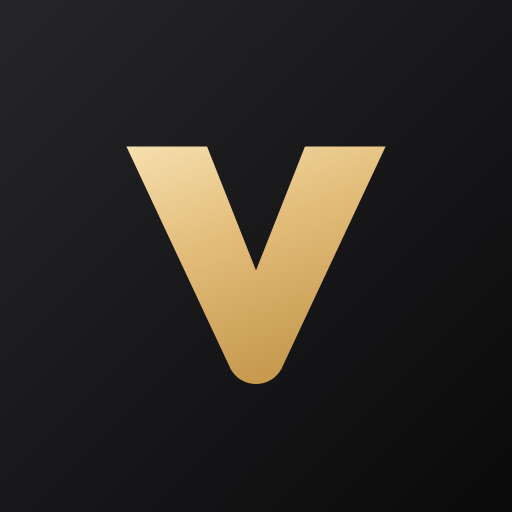
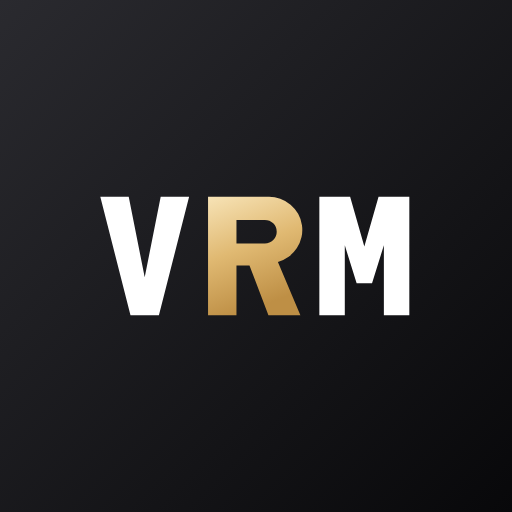
Sigle VRM dessine lettre par lettre, icone personnalisable, baseline retiree
LOGO — plus aucune reference a la chaussure
Les futurs utilisateurs ne vendront pas forcement des sneakers : le logo devait
etre neutre. C'est le sigle VRM, avec le R en dore — un seul detail de couleur,
c'est ce qui separe une marque d'un mot ecrit en gras.

Les lettres sont dessinees en traces vectoriels, pas ecrites avec une police.
Une police met un instant a charger, et peut ne jamais charger : le logo
sauterait alors d'une graisse a l'autre sous les yeux de l'utilisateur. Le R
porte sa contre-forme (le trou de la panse) via fill-rule evenodd.

Deux usages : le medaillon carre (icone, en-tete, ecran de connexion) et le
sigle a plat pour l'en-tete. Icones iPhone/PWA regenerees depuis le meme trace.

ICONE PERSONNALISABLE
Chacun peut mettre la sienne : Parametres → Icone de l'application. Elle
remplace le favicon, l'icone iOS et — nouveaute — le manifeste, fabrique a la
volee, car Android lit le manifeste et pas les balises <link>.

Au passage, un vrai bug : l'app ecrasait les icones avec l'ancienne photo par
defaut a chaque chargement. L'icone soignee etait donc systematiquement
remplacee sans que personne l'ait demande. On ne remplace plus que s'il existe
une image choisie.

BASELINE RETIREE
« Vendre · Ranger · Marge » disparait de l'ecran de connexion, de l'accueil, du
titre de l'onglet et du manifeste.

Claude-Session: https://claude.ai/code/session_01AfHmUFZchqY1xjBjxToU69

Changed region(s): [[0.1875, 0.2812, 0.8125, 0.75]]

diff --git a/src/App.jsx b/src/App.jsx
@@ -2,7 +2,7 @@ import React, { useState, useMemo, useEffect } from "react";
 
 // Version visible (coin haut gauche sous « VRM ») pour vérifier d'un coup d'œil
 // si l'app a bien chargé la dernière version (fini le doute « c'est à jour ? »).
-const BUILD_ID = 'v48/00 · ✨logo';
+const BUILD_ID = 'v49/00 · ✨VRM';
 // PALETTE — passe « premium » : neutres plus propres, texte mieux contrasté,
 // bordures plus discrètes, et des jetons d'ÉLÉVATION (ombres) pour donner de la
 // profondeur aux cartes au lieu du rendu plat d'avant. Les clés existantes sont
@@ -2030,14 +2030,26 @@ function PieChartSVG({data,size=160}){
 }
 
 /* ── Nav ─────────────────────────────────────────────── */
-// ── LOGO VRM ──────────────────────────────────────────────────────────────
-// Un V doré plein cadre sur fond nuit, cerné d'un liseré fin : le registre des
-// marques de revente sneakers (noir + or), pas celui des icônes d'application
-// génériques. Dessiné en TRACÉ vectoriel et non avec une police : une police
-// qui ne charge pas décalerait le logo, et le tracé reste net à toutes les
-// tailles. Vérifié de 92 px (écran de connexion) à 20 px (onglet du
-// navigateur) — c'est la petite taille qui commande le dessin.
+// ── IDENTITÉ VRM ──────────────────────────────────────────────────────────
+// Le sigle VRM, dessiné LETTRE PAR LETTRE en tracés vectoriels. Pourquoi ne pas
+// simplement écrire « VRM » avec la police de l'app : une police met un instant
+// à charger (et peut ne jamais charger), et le logo sauterait d'une graisse à
+// l'autre sous les yeux de l'utilisateur. Un tracé s'affiche juste, tout de
+// suite, identique partout.
+//
+// Le R en doré : un seul détail de couleur, c'est ce qui distingue une marque
+// d'un simple mot écrit en gras. Volontairement SANS référence à la chaussure —
+// l'app doit convenir à quelqu'un qui revend des vêtements, des jeux ou des
+// meubles.
+//
+// Graisse constante 4.8, hauteur 20, largeur ~15 par lettre : le R porte une
+// contre-forme (le trou de sa panse) obtenue par fill-rule evenodd.
+const L_V = 'M0 0 H4.8 L7.5 13.6 L10.2 0 H15 L9.9 20 H5.1 Z';
+const L_R = 'M0 0 H10.2 a5.6 5.6 0 0 1 1.6 11 L15.6 20 H10.2 L7 11.6 H4.8 V20 H0 Z M4.8 3.9 V7.9 H9.6 a2 2 0 0 0 0-4 Z';
+const L_M = 'M0 20 V0 H5.2 L7.6 8.4 L10 0 H15.2 V20 H10.9 V8.2 L8.9 14.6 H6.3 L4.3 8.2 V20 Z';
+
 let _logoSeq = 0;
+// Le sigle en médaillon : l'icône de l'app (écran d'accueil, onglet, en-tête).
 function VrmLogo({ size = 40, style }) {
   // Identifiants de dégradé uniques : deux <svg> qui partagent le même id se
   // volent leur dégradé, et le second s'affiche vide.
@@ -2045,16 +2057,31 @@ function VrmLogo({ size = 40, style }) {
   return (
     <svg width={size} height={size} viewBox="0 0 64 64" style={style} role="img" aria-label="VRM">
       <defs>
-        <linearGradient id={`${uid}o`} x1="0" y1="0" x2="0.4" y2="1">
-          <stop offset="0" stopColor="#F6DFAE"/><stop offset=".45" stopColor="#E3BE7B"/><stop offset="1" stopColor="#C79A50"/>
+        <linearGradient id={`${uid}o`} x1="0" y1="0" x2=".3" y2="1">
+          <stop offset="0" stopColor="#F7E3B6"/><stop offset=".5" stopColor="#E0B972"/><stop offset="1" stopColor="#BE8F45"/>
         </linearGradient>
         <linearGradient id={`${uid}n`} x1="0" y1="0" x2="1" y2="1">
-          <stop offset="0" stopColor="#26262A"/><stop offset="1" stopColor="#0A0A0B"/>
+          <stop offset="0" stopColor="#2A2A2F"/><stop offset="1" stopColor="#08080A"/>
         </linearGradient>
       </defs>
       <rect width="64" height="64" rx="14" fill={`url(#${uid}n)`}/>
-      <rect x="1.25" y="1.25" width="61.5" height="61.5" rx="12.9" fill="none" stroke="#E3BE7B" strokeOpacity=".38" strokeWidth="1.6"/>
-      <path d="M9.5 13 H23.5 L32 34.5 L40.5 13 H54.5 L36.4 51.6 a5 5 0 0 1-8.8 0 Z" fill={`url(#${uid}o)`}/>
+      <rect x="1.25" y="1.25" width="61.5" height="61.5" rx="12.9" fill="none" stroke="#E0B972" strokeOpacity=".34" strokeWidth="1.6"/>
+      <g transform="translate(6 22)">
+        <path d={L_V} fill="#fff"/>
+        <g transform="translate(18.2 0)"><path d={L_R} fill={`url(#${uid}o)`} fillRule="evenodd"/></g>
+        <g transform="translate(37 0)"><path d={L_M} fill="#fff"/></g>
+      </g>
+    </svg>
+  );
+}
+// Le sigle à plat, pour poser à côté du médaillon dans l'en-tête.
+function VrmWord({ height = 22, color, accent, style }) {
+  const k = height / 20;
+  return (
+    <svg width={52.6 * k} height={height} viewBox="0 0 52.6 20" style={style} role="img" aria-label="VRM">
+      <path d={L_V} fill={color || C.text}/>
+      <g transform="translate(18.2 0)"><path d={L_R} fill={accent || color || C.text} fillRule="evenodd"/></g>
+      <g transform="translate(37 0)"><path d={L_M} fill={color || C.text}/></g>
     </svg>
   );
 }
@@ -2519,9 +2546,7 @@ function AuthScreen() {
     <div style={{minHeight:'100vh',background:C.bg,display:'flex',alignItems:'center',justifyContent:'center',padding:'24px 20px'}}>
       <div style={{width:'100%',maxWidth:380}}>
         <div style={{textAlign:'center',marginBottom:26}}>
-          <VrmLogo size={72} style={{marginBottom:14,filter:'drop-shadow(0 6px 18px rgba(0,0,0,.18))'}}/>
-          <div style={{fontSize:32,fontWeight:700,color:C.text,letterSpacing:-1,lineHeight:1}}>VRM</div>
-          <div style={{fontSize:11,color:C.muted,marginTop:7,letterSpacing:'.12em',textTransform:'uppercase',fontWeight:600}}>Vendre · Ranger · Marge</div>
+          <VrmLogo size={76} style={{filter:'drop-shadow(0 8px 22px rgba(10,10,12,.22))'}}/>
         </div>
         <form onSubmit={submit} style={{background:C.card,border:`1px solid ${C.border}`,borderRadius:20,padding:'20px 18px',boxShadow:C.shadow||'none'}}>
           <div style={{fontSize:17,fontWeight:700,color:C.text,letterSpacing:-0.4,marginBottom:3}}>
@@ -2684,10 +2709,12 @@ function Onboarding({ setTab }) {
   return (
     <div style={{padding:'20px 16px 8px'}}>
       <div style={{borderRadius:20,border:`1px solid ${C.border}`,background:C.card,padding:'22px 20px',boxShadow:'0 1px 3px rgba(0,0,0,.04)'}}>
-        <div style={{fontSize:22,fontWeight:700,color:C.text,marginBottom:2}}>Bienvenue sur VRM 👋</div>
-        <div style={{fontSize:12,fontWeight:500,color:C.accent,letterSpacing:0.3,marginBottom:8}}>Vendre · Ranger · Marge</div>
+        <div style={{display:'flex',alignItems:'center',gap:12,marginBottom:10}}>
+          <VrmLogo size={44}/>
+          <div style={{fontSize:22,fontWeight:700,color:C.text,letterSpacing:'-0.02em'}}>Bienvenue 👋</div>
+        </div>
         <div style={{fontSize:15,color:C.muted,lineHeight:1.5,marginBottom:20}}>
-          Le CRM des revendeurs Vinted : vends tes paires, range-les au garage, suis ta marge. Connecte ton compte Vinted pour commencer — c'est parti en 3 étapes :
+          Ton poste de pilotage : ce que tu vends, où c'est rangé, ce que ça te rapporte. Connecte ton compte Vinted pour commencer — c'est parti en 3 étapes :
         </div>
         <div style={{display:'flex',flexDirection:'column',gap:14}}>
           {steps.map(s=>(
@@ -13037,7 +13064,7 @@ function LeboncoinScreen() {
     </div>
   );
 }
-function SettingsScreen({ setTab, onExport, onImport, dark, toggleDark, notifEnabled, onToggleNotif }) {
+function SettingsScreen({ setTab, onExport, onImport, dark, toggleDark, notifEnabled, onToggleNotif, customLogo, onPickLogo, onResetLogo }) {
   // Actions sur le compte : une vraie fenêtre plutôt qu'un prompt du navigateur.
   // Un window.prompt ne se style pas, ne masque pas le mot de passe saisi, et
   // sur iPhone il s'affiche comme une alerte système au milieu de rien — c'est
@@ -13190,6 +13217,35 @@ function SettingsScreen({ setTab, onExport, onImport, dark, toggleDark, notifEna
 
       <div style={{fontSize:11,color:C.muted,textTransform:'uppercase',letterSpacing:1,fontWeight:500,margin:'18px 0 8px 2px'}}>Comptes Vinted</div>
       <Row icon="🔗" title="Comptes liés" desc="État de connexion, renommer, tester." onClick={()=>setTab('vintedaccounts')}/>
+
+      {/* ICÔNE SUR L'ÉCRAN D'ACCUEIL — chacun met la sienne. */}
+      <div style={{fontSize:11,color:C.muted,textTransform:'uppercase',letterSpacing:1,fontWeight:500,margin:'18px 0 8px 2px'}}>Icône de l'application</div>
+      <div style={{padding:'15px 16px',borderRadius:16,border:`1px solid ${C.border}`,background:C.card,marginBottom:8}}>
+        <div style={{display:'flex',alignItems:'center',gap:14}}>
+          <div style={{width:56,height:56,borderRadius:14,flexShrink:0,overflow:'hidden',boxShadow:C.shadow||'none'}}>
+            {customLogo ? <img src={customLogo} alt="" style={{width:56,height:56,objectFit:'cover'}}/> : <VrmLogo size={56}/>}
+          </div>
+          <div style={{flex:1,minWidth:0}}>
+            <div style={{fontSize:15,fontWeight:600,color:C.text}}>{customLogo ? 'Ton icône' : 'Icône VRM'}</div>
+            <div style={{fontSize:11,color:C.muted,marginTop:2,lineHeight:1.45}}>Celle qui s'affiche sur ton écran d'accueil et dans l'onglet du navigateur.</div>
+          </div>
+        </div>
+        <div style={{display:'flex',gap:8,marginTop:12,flexWrap:'wrap'}}>
+          <button type="button" onClick={onPickLogo}
+            style={{border:'none',background:C.accent,color:C.onAccent||'#fff',borderRadius:10,padding:'9px 14px',fontSize:12.5,fontWeight:600,cursor:'pointer',fontFamily:'inherit'}}>
+            Choisir une image
+          </button>
+          {customLogo && (
+            <button type="button" onClick={onResetLogo}
+              style={{border:`1px solid ${C.border}`,background:'transparent',color:C.text,borderRadius:10,padding:'9px 14px',fontSize:12.5,fontWeight:600,cursor:'pointer',fontFamily:'inherit'}}>
+              Remettre celle de VRM
+            </button>
+          )}
+        </div>
+        <div style={{fontSize:10.5,color:C.muted,marginTop:10,lineHeight:1.5}}>
+          Prends une image <b>carrée</b> (512 × 512 idéalement). Sur iPhone, l'icône déjà posée sur l'écran d'accueil ne change pas toute seule : <b>supprime le raccourci et refais « Ajouter à l'écran d'accueil »</b> pour qu'il prenne la nouvelle.
+        </div>
+      </div>
 
       {/* WIDGET IPHONE — l'adresse contient ta clé personnelle. Avant, cette
           adresse était publique : n'importe qui pouvait lire ton chiffre
@@ -13709,16 +13765,38 @@ export default function App() {
   // On met à jour dynamiquement les balises <link> d'icônes avec le logo courant
   // (ta photo si tu en as mis une, sinon le logo Cancale par défaut).
   useEffect(()=>{
-    if(!logoSrc) return;
-    const setIcon=(rel)=>{
+    // ICÔNE SUR L'ÉCRAN D'ACCUEIL
+    // On ne remplace les icônes du site QUE si une image personnalisée existe.
+    // Avant, on écrasait aussi avec l'image par défaut — l'icône VRM soignée
+    // était donc remplacée par une photo au chargement, sans que personne
+    // l'ait demandé.
+    const setIcon=(rel,href)=>{
       let link=document.querySelector(`link[rel="${rel}"]`);
       if(!link){ link=document.createElement('link'); link.rel=rel; document.head.appendChild(link); }
-      link.href=logoSrc;
+      link.href=href;
     };
-    setIcon('icon');
-    setIcon('shortcut icon');
-    setIcon('apple-touch-icon');
-  },[logoSrc]);
+    if (customLogo) {
+      setIcon('icon', customLogo);
+      setIcon('shortcut icon', customLogo);
+      setIcon('apple-touch-icon', customLogo);
+      // Android/Chrome lisent le manifeste, pas les balises <link>. On en
+      // fabrique donc un à la volée, avec l'image en clair dedans.
+      try {
+        const man = {
+          name:'VRM', short_name:'VRM', start_url:'/', scope:'/', display:'standalone',
+          orientation:'portrait', background_color:'#eef2f2', theme_color:'#007782',
+          icons:[{ src: customLogo, sizes:'512x512', type:'image/png', purpose:'any' }],
+        };
+        const url = URL.createObjectURL(new Blob([JSON.stringify(man)], { type:'application/manifest+json' }));
+        setIcon('manifest', url);
+      } catch(_) {}
+    } else {
+      setIcon('icon','/icon-192.png');
+      setIcon('shortcut icon','/icon-192.png');
+      setIcon('apple-touch-icon','/apple-touch-icon.png');
+      setIcon('manifest','/manifest.webmanifest');
+    }
+  },[customLogo]);
 
   // Repercute dans le state React les tokens rafraichis automatiquement par le
   // proxy (via persistRefreshedTokens). Sans ca, seuls l'objet compte en memoire
@@ -14290,7 +14368,7 @@ export default function App() {
           {/* minWidth:0 + nowrap : avec la flèche « retour », le numéro de version
               passait à la ligne et faisait grandir l'en-tête d'un écran à l'autre. */}
           <div style={{minWidth:0}}>
-            <div style={{fontWeight:700,fontSize:22,color:C.accent,letterSpacing:-0.6,lineHeight:1}}>VRM</div>
+            <VrmWord height={19} color={C.text} accent={C.accent} style={{display:'block'}}/>
             <div style={{fontSize:9,color:C.muted,fontWeight:500,letterSpacing:0.2,marginTop:2,opacity:0.75,whiteSpace:'nowrap',overflow:'hidden',textOverflow:'ellipsis',maxWidth:110}}>{BUILD_ID}</div>
           </div>
         </div>
@@ -14499,6 +14577,7 @@ export default function App() {
           }
         }}>
         {tab==='settings'&&<SettingsScreen setTab={setTab}
+          customLogo={customLogo} onPickLogo={()=>logoInputRef.current&&logoInputRef.current.click()} onResetLogo={resetLogo}
           notifEnabled={notifEnabled}
           onToggleNotif={async()=>{
             if(!notifEnabled){

diff --git a/index.html b/index.html
@@ -28,7 +28,7 @@
   <link rel="stylesheet" media="print" onload="this.media='all'"
         href="https://fonts.googleapis.com/css2?family=Inter:wght@400;500;600;700;800;900&display=swap" />
   <noscript><link rel="stylesheet" href="https://fonts.googleapis.com/css2?family=Inter:wght@400;500;600;700;800;900&display=swap" /></noscript>
-  <title>VRM — Vendre · Ranger · Marge</title>
+  <title>VRM</title>
   <style>
     body{margin:0;padding:0;background:#f4f7f5;font-family:'Inter','SF Pro Text',system-ui,-apple-system,'Segoe UI',sans-serif;-webkit-font-smoothing:antialiased;-moz-osx-font-smoothing:grayscale;text-rendering:optimizeLegibility;}
     *{-webkit-tap-highlight-color:transparent;}
